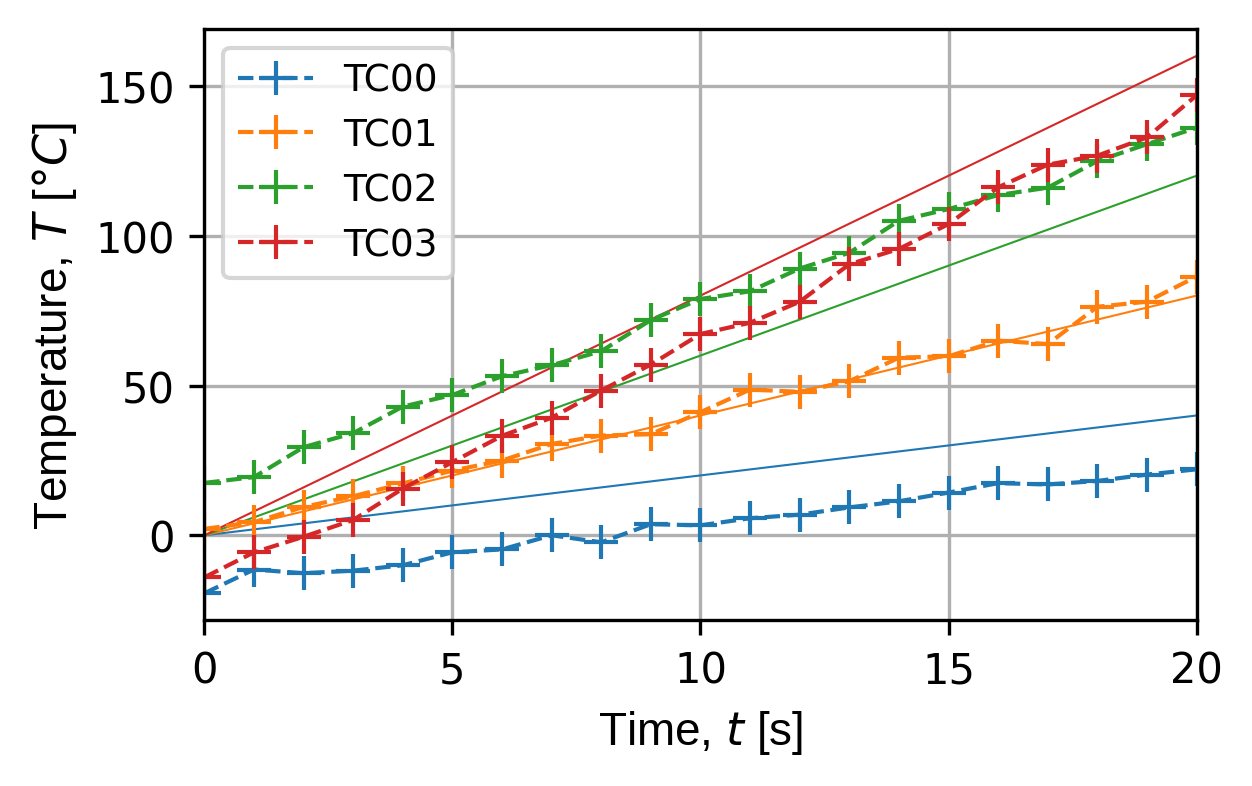
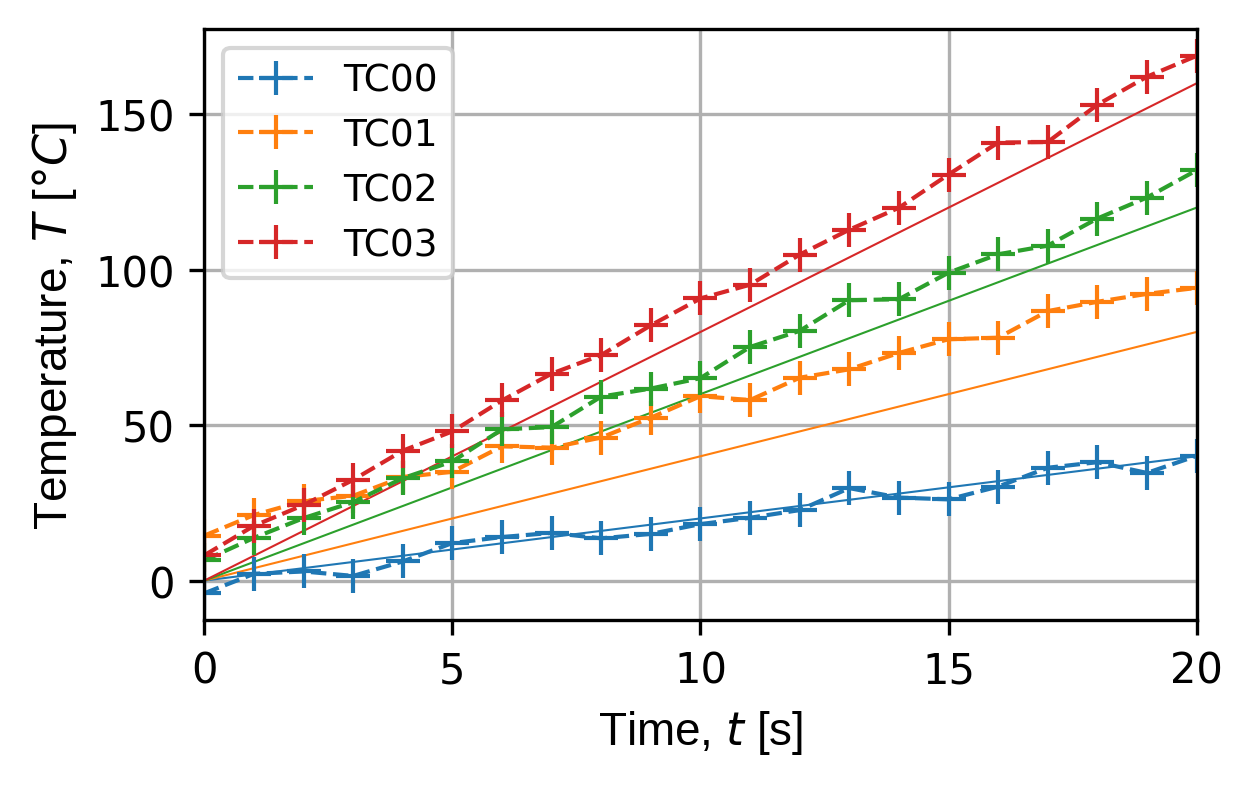
Started cleaning up 2d plate to an example

Changed region(s): [[0.0935, 0.0611, 0.9657, 0.7634], [0.0623, 0.2748, 0.1558, 0.3664], [0.0623, 0.0916, 0.1558, 0.1832]]

diff --git a/examples/ex1_2d_thermcouples.py b/examples/ex1_2d_thermcouples.py
@@ -1,0 +1,104 @@
+'''
+================================================================================
+pycave: 2d thermocouples
+
+authors: thescepticalrabbit
+================================================================================
+'''
+from pprint import pprint
+from pathlib import Path
+from functools import partial
+
+import numpy as np
+import matplotlib.pyplot as plt
+
+import mooseherder as mh
+import pycave
+
+
+
+def main() -> None:
+
+    data_path = Path('data/thermal_2d_basic_out.e')
+    data_reader = mh.ExodusReader(data_path)
+    sim_data = data_reader.read_all_sim_data()
+
+    dim = 2
+    field_name = 'T'
+
+    x_sens = 3
+    x_min = 0
+    x_max = 2
+
+    y_sens = 2
+    y_min = 0
+    y_max = 1
+
+    z_sens = 1
+    z_min = 0
+    z_max = 0
+
+    sens_pos_x = np.linspace(x_min,x_max,x_sens+2)[1:-1]
+    sens_pos_y = np.linspace(y_min,y_max,y_sens+2)[1:-1]
+    sens_pos_z = np.linspace(z_min,z_max,z_sens+2)[1:-1]
+    '''
+    sens_pos_x = np.linspace(x_min,x_max,x_sens+2)[1:-1]
+    sens_pos_y = np.linspace(y_min,y_max,y_sens+2)[1:-1]
+    sens_pos_z = np.linspace(z_min,z_max,z_sens+2)[1:-1]
+    '''
+    (sens_grid_x,sens_grid_y,sens_grid_z) = np.meshgrid(
+        sens_pos_x,sens_pos_y,sens_pos_z)
+
+    sens_pos_x = sens_grid_x.flatten()
+    sens_pos_y = sens_grid_y.flatten()
+    sens_pos_z = sens_grid_z.flatten()
+    sens_pos = np.vstack((sens_pos_x,sens_pos_y,sens_pos_z)).T
+
+    print(sens_pos)
+
+    t_field = pycave.Field(sim_data,field_name,dim)
+    tc_array = pycave.ThermocoupleArray(sens_pos,t_field)
+
+    err_range = 2.0
+    rand_err_func = partial(np.random.default_rng().normal,
+                            loc=0.0,
+                            scale=err_range)
+
+    def sys_err_func(size: tuple) -> np.ndarray:
+        err_range = 20.0
+        sys_errs = np.random.default_rng().uniform(low=-err_range,
+                                                   high=err_range,
+                                                   size=(size[0],1))
+        sys_errs = np.tile(sys_errs,(1,size[1]))
+        return sys_errs
+
+    tc_array.set_random_err_func(rand_err_func)
+    tc_array.set_systematic_err_func(sys_err_func)
+
+    pv_sens = tc_array.get_visualiser()
+    pv_sim = t_field.get_visualiser()
+    pv_plot = pycave.plot_sensors(pv_sim,pv_sens,field_name)
+
+    pv_plot.add_scalar_bar('Temperature, T [degC]')
+
+    # Determined manually by moving camera and then dumping camera position to
+    # console after window close
+    pv_plot.camera_position = [(-0.295, 1.235, 3.369),
+                            (1.0274, 0.314, 0.0211),
+                            (0.081, 0.969, -0.234)]
+
+    save_render = Path('dev/images/plate_thermal_2d_sim_view.pdf')
+    #pv_plot.save_graphic(save_render) # only for .svg .eps .ps .pdf .tex
+    pv_plot.show()
+    pprint(pv_plot.camera_position)
+
+    return
+
+    (fig,ax) = tc_array.plot_time_traces(plot_truth=True)
+    plt.show()
+    save_traces = save_render.with_name('plate_thermal_2d_traces').with_suffix('.png')
+    fig.savefig(save_traces, dpi=300, format='png', bbox_inches='tight')
+
+
+if __name__ == '__main__':
+    main()
